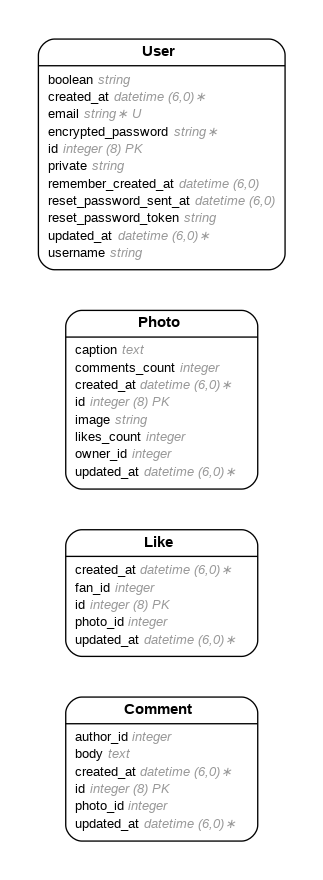
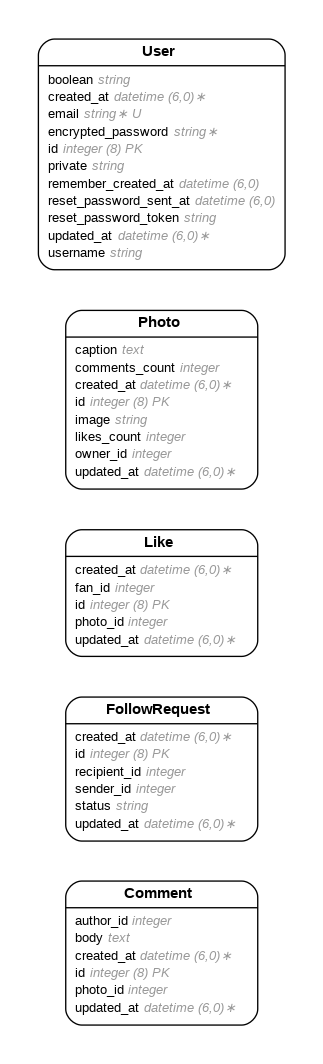
create follow_request

Changed region(s): [[0.0929, 0.0307, 0.8978, 0.9818], [0.8669, 0.2455, 0.8978, 0.3068]]

diff --git a/app/controllers/follow_requests_controller.rb b/app/controllers/follow_requests_controller.rb
@@ -1,0 +1,58 @@
+class FollowRequestsController < ApplicationController
+  def index
+    matching_follow_requests = FollowRequest.all
+
+    @list_of_follow_requests = matching_follow_requests.order({ :created_at => :desc })
+
+    render({ :template => "follow_requests/index" })
+  end
+
+  def show
+    the_id = params.fetch("path_id")
+
+    matching_follow_requests = FollowRequest.where({ :id => the_id })
+
+    @the_follow_request = matching_follow_requests.at(0)
+
+    render({ :template => "follow_requests/show" })
+  end
+
+  def create
+    the_follow_request = FollowRequest.new
+    the_follow_request.recipient_id = params.fetch("query_recipient_id")
+    the_follow_request.sender_id = params.fetch("query_sender_id")
+    the_follow_request.status = params.fetch("query_status")
+
+    if the_follow_request.valid?
+      the_follow_request.save
+      redirect_to("/follow_requests", { :notice => "Follow request created successfully." })
+    else
+      redirect_to("/follow_requests", { :alert => the_follow_request.errors.full_messages.to_sentence })
+    end
+  end
+
+  def update
+    the_id = params.fetch("path_id")
+    the_follow_request = FollowRequest.where({ :id => the_id }).at(0)
+
+    the_follow_request.recipient_id = params.fetch("query_recipient_id")
+    the_follow_request.sender_id = params.fetch("query_sender_id")
+    the_follow_request.status = params.fetch("query_status")
+
+    if the_follow_request.valid?
+      the_follow_request.save
+      redirect_to("/follow_requests/#{the_follow_request.id}", { :notice => "Follow request updated successfully."} )
+    else
+      redirect_to("/follow_requests/#{the_follow_request.id}", { :alert => the_follow_request.errors.full_messages.to_sentence })
+    end
+  end
+
+  def destroy
+    the_id = params.fetch("path_id")
+    the_follow_request = FollowRequest.where({ :id => the_id }).at(0)
+
+    the_follow_request.destroy
+
+    redirect_to("/follow_requests", { :notice => "Follow request deleted successfully."} )
+  end
+end

diff --git a/db/schema.rb b/db/schema.rb
@@ -10,7 +10,7 @@
 #
 # It's strongly recommended that you check this file into your version control system.
 
-ActiveRecord::Schema[7.1].define(version: 2025_05_20_233332) do
+ActiveRecord::Schema[7.1].define(version: 2025_05_20_234550) do
   # These are extensions that must be enabled in order to support this database
   enable_extension "plpgsql"
 
@@ -18,6 +18,14 @@ ActiveRecord::Schema[7.1].define(version: 2025_05_20_233332) do
     t.integer "author_id"
     t.text "body"
     t.integer "photo_id"
+    t.datetime "created_at", null: false
+    t.datetime "updated_at", null: false
+  end
+
+  create_table "follow_requests", force: :cascade do |t|
+    t.integer "recipient_id"
+    t.integer "sender_id"
+    t.string "status"
     t.datetime "created_at", null: false
     t.datetime "updated_at", null: false
   end

diff --git a/config/routes.rb b/config/routes.rb
@@ -1,4 +1,23 @@
 Rails.application.routes.draw do
+  # Routes for the Follow request resource:
+
+  # CREATE
+  post("/insert_follow_request", { :controller => "follow_requests", :action => "create" })
+          
+  # READ
+  get("/follow_requests", { :controller => "follow_requests", :action => "index" })
+  
+  get("/follow_requests/:path_id", { :controller => "follow_requests", :action => "show" })
+  
+  # UPDATE
+  
+  post("/modify_follow_request/:path_id", { :controller => "follow_requests", :action => "update" })
+  
+  # DELETE
+  get("/delete_follow_request/:path_id", { :controller => "follow_requests", :action => "destroy" })
+
+  #------------------------------
+
   # Routes for the Like resource:
 
   # CREATE

diff --git a/app/models/follow_request.rb b/app/models/follow_request.rb
@@ -1,0 +1,13 @@
+# == Schema Information
+#
+# Table name: follow_requests
+#
+#  id           :bigint           not null, primary key
+#  status       :string
+#  created_at   :datetime         not null
+#  updated_at   :datetime         not null
+#  recipient_id :integer
+#  sender_id    :integer
+#
+class FollowRequest < ApplicationRecord
+end

diff --git a/db/migrate/20250520234550_create_follow_requests.rb b/db/migrate/20250520234550_create_follow_requests.rb
@@ -1,0 +1,11 @@
+class CreateFollowRequests < ActiveRecord::Migration[7.1]
+  def change
+    create_table :follow_requests do |t|
+      t.integer :recipient_id
+      t.integer :sender_id
+      t.string :status
+
+      t.timestamps
+    end
+  end
+end
